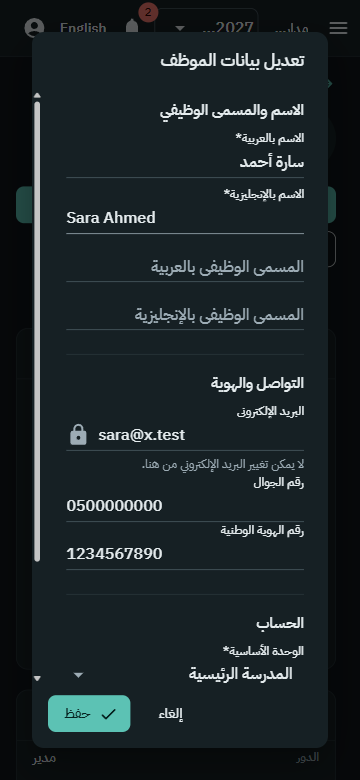
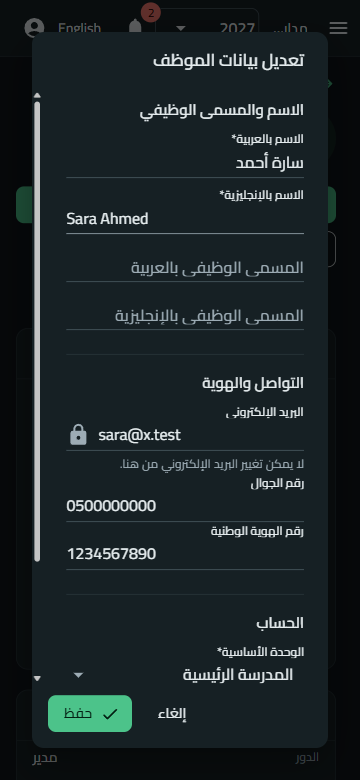
feat(ui): apply owner feedback - brand green, light sidebar, Cairo and Aptos fonts (#327)
- Primary #00663D (dark mode #4CC38A, AA on dark surfaces); light sidebar with green active item.
- Fonts: Cairo for Arabic; Aptos Display/Aptos for English when installed, Inter (Google Fonts)
  as the hosted fallback because Aptos is not licensed for web hosting. No font files committed.
- 360 px app bar: room for the notification badge so it no longer covers the language button.
- Refreshed after screenshots; theme tests.

diff --git a/src/Lms.Client/wwwroot/css/lms-theme.css b/src/Lms.Client/wwwroot/css/lms-theme.css
@@ -5,7 +5,6 @@
 :root {
     --lms-radius-surface: 12px;
     --lms-radius-control: 8px;
-    --lms-nav-accent: #7FD3C7;
     --lms-tint-primary: color-mix(in srgb, var(--mud-palette-primary) 10%, transparent);
     --lms-focus: 0 0 0 3px color-mix(in srgb, var(--mud-palette-primary) 35%, transparent);
 }
@@ -32,7 +31,7 @@ body { -webkit-font-smoothing: antialiased; text-rendering: optimizeLegibility; 
 .lms-app button:focus-visible,
 .lms-app .mud-button-root:focus-visible,
 .lms-app .mud-nav-link:focus-visible { outline: 2px solid var(--mud-palette-primary); outline-offset: 2px; }
-.lms-drawer .mud-nav-link:focus-visible { outline-color: var(--lms-nav-accent); outline-offset: -2px; }
+.lms-drawer .mud-nav-link:focus-visible { outline-offset: -2px; }
 @media (prefers-reduced-motion: reduce) {
     *, *::before, *::after { animation-duration: .01ms !important; transition-duration: .01ms !important; }
 }
@@ -50,17 +49,23 @@ body { -webkit-font-smoothing: antialiased; text-rendering: optimizeLegibility; 
 .lms-appbar .mud-toolbar { gap: 4px; }
 .lms-appbar-title { font-weight: 600 !important; }
 .lms-appbar-tools { display: flex; align-items: center; gap: 4px; min-width: 0; }
+/* Phones: leave room on the bell's end side so the unread badge does not cover the next button. */
+@media (max-width: 599px) {
+    .lms-appbar .mud-badge-root { margin-inline: 0 10px !important; }
+    .lms-appbar-tools { gap: 2px; }
+}
 
-.lms-drawer.mud-drawer { border-inline-end: 0; }
+/* Light sidebar: surface colour with a hairline edge; the active item is a green-tinted pill with a green bar. */
+.lms-drawer.mud-drawer { border-inline-end: 1px solid var(--mud-palette-lines-default); }
 .lms-brand.mud-drawer-header {
     display: flex; align-items: center; gap: 12px; min-height: 64px; padding: 12px 20px;
-    border-bottom: 1px solid rgba(255, 255, 255, .08);
+    border-bottom: 1px solid var(--mud-palette-lines-default);
 }
 .lms-brand-mark {
     display: inline-flex; align-items: center; justify-content: center; width: 32px; height: 32px; flex-shrink: 0;
-    border-radius: 8px; background: var(--lms-nav-accent); color: #0D3A3B;
+    border-radius: 8px; background: var(--mud-palette-primary); color: var(--mud-palette-primary-text);
 }
-.lms-brand-name.mud-typography { color: #FFFFFF; font-weight: 600; line-height: 1.3; }
+.lms-brand-name.mud-typography { color: var(--mud-palette-text-primary); font-weight: 700; line-height: 1.3; }
 
 .lms-drawer .mud-navmenu { padding: 12px 8px; }
 .lms-drawer .mud-nav-link {
@@ -68,15 +73,17 @@ body { -webkit-font-smoothing: antialiased; text-rendering: optimizeLegibility; 
     color: var(--mud-palette-drawer-text); font-weight: 400; position: relative;
 }
 .lms-drawer .mud-nav-link .mud-nav-link-text { margin-inline-start: 12px; }
-.lms-drawer .mud-nav-link:hover:not(.mud-nav-link-disabled) { background: rgba(255, 255, 255, .06); color: #FFFFFF; }
+.lms-drawer .mud-nav-link:hover:not(.mud-nav-link-disabled) {
+    background: color-mix(in srgb, var(--mud-palette-text-primary) 5%, transparent); color: var(--mud-palette-text-primary);
+}
 .lms-drawer .mud-nav-link.active:not(.mud-nav-link-disabled) {
-    background: rgba(255, 255, 255, .1) !important; color: #FFFFFF !important; font-weight: 600;
+    background: var(--lms-tint-primary) !important; color: var(--mud-palette-primary) !important; font-weight: 600;
 }
 .lms-drawer .mud-nav-link.active:not(.mud-nav-link-disabled)::before {
     content: ""; position: absolute; inset-inline-start: 0; top: 8px; bottom: 8px; width: 3px;
-    border-radius: 3px; background: var(--lms-nav-accent);
+    border-radius: 3px; background: var(--mud-palette-primary);
 }
-.lms-drawer .mud-nav-link.active .mud-nav-link-icon { color: var(--lms-nav-accent) !important; }
+.lms-drawer .mud-nav-link.active .mud-nav-link-icon { color: var(--mud-palette-primary) !important; }
 .lms-drawer .mud-nav-link .mud-nav-link-icon { color: var(--mud-palette-drawer-icon); }
 
 .lms-page.mud-container { padding-top: 24px; padding-bottom: 48px; }

diff --git a/src/Lms.Client/wwwroot/index.html b/src/Lms.Client/wwwroot/index.html
@@ -9,7 +9,8 @@
     <link rel="preload" id="webassembly" />
     <link rel="preconnect" href="https://fonts.googleapis.com" />
     <link rel="preconnect" href="https://fonts.gstatic.com" crossorigin />
-    <link rel="stylesheet" href="https://fonts.googleapis.com/css2?family=IBM+Plex+Sans+Arabic:wght@400;500;600;700&display=swap" />
+    <!-- Cairo (Arabic) and Inter (fallback for Aptos, which is not licensed for web hosting): both OFL, Google Fonts. -->
+    <link rel="stylesheet" href="https://fonts.googleapis.com/css2?family=Cairo:wght@400;500;600;700&family=Inter:wght@400;500;600;700&display=swap" />
     <link rel="stylesheet" href="_content/MudBlazor/MudBlazor.min.css" />
     <link rel="stylesheet" href="css/app.css" />
     <link rel="stylesheet" href="css/lms-theme.css" />

diff --git a/src/Lms.Client/wwwroot/css/app.css b/src/Lms.Client/wwwroot/css/app.css
@@ -1,4 +1,5 @@
-html, body { margin: 0; font-family: "IBM Plex Sans Arabic", "IBM Plex Sans", "Segoe UI", Tahoma, Arial, sans-serif; }
+html, body { margin: 0; font-family: "Aptos Display", Aptos, Inter, "Segoe UI", Cairo, Arial, sans-serif; }
+html:lang(ar), html:lang(ar) body { font-family: Cairo, "Segoe UI", Tahoma, Arial, sans-serif; }
 /* Theme tokens, shell and shared components: css/lms-theme.css. */
 
 #blazor-error-ui {

diff --git a/src/Lms.Client/Theme/LmsTheme.cs b/src/Lms.Client/Theme/LmsTheme.cs
@@ -3,20 +3,28 @@ using MudBlazor;
 namespace Lms.Client.Theme;
 
 /// <summary>
-/// The LMS look: deep ink-teal navigation, calm neutral surfaces, one type family for Arabic and Latin
-/// (IBM Plex Sans Arabic, whose Latin glyphs are IBM Plex Sans). Colours are chosen for WCAG AA text contrast
-/// in both palettes. Tokens the theme cannot express live in wwwroot/css/lms-theme.css.
+/// The LMS look: brand green #00663D on calm neutral surfaces with a light sidebar; Cairo for Arabic and
+/// Aptos Display for English. Colours are chosen for WCAG AA text contrast in both palettes.
+/// Tokens the theme cannot express live in wwwroot/css/lms-theme.css (keep the font stacks there in sync).
 /// </summary>
 public static class LmsTheme
 {
-    private static readonly string[] FontStack =
-        ["IBM Plex Sans Arabic", "IBM Plex Sans", "Segoe UI", "Tahoma", "Arial", "sans-serif"];
+    /// <summary>
+    /// Arabic UI: Cairo (Google Fonts) for Arabic and its own Latin glyphs.
+    /// English UI: Aptos Display / Aptos when installed (Windows with Microsoft 365); Aptos is not licensed for
+    /// web hosting, so devices without it get Inter (Google Fonts). Cairo stays in the stack for Arabic names.
+    /// </summary>
+    public static readonly string[] ArabicFontStack =
+        ["Cairo", "Segoe UI", "Tahoma", "Arial", "sans-serif"];
 
-    public static MudTheme Create() => new()
+    public static readonly string[] EnglishFontStack =
+        ["Aptos Display", "Aptos", "Inter", "Segoe UI", "Cairo", "Arial", "sans-serif"];
+
+    public static MudTheme Create(bool rightToLeft) => new()
     {
         PaletteLight = Light(),
         PaletteDark = Dark(),
-        Typography = Type(),
+        Typography = Type(rightToLeft ? ArabicFontStack : EnglishFontStack),
         LayoutProperties = new LayoutProperties
         {
             DefaultBorderRadius = "8px",
@@ -29,9 +37,9 @@ public static class LmsTheme
 
     private static PaletteLight Light() => new()
     {
-        Primary = "#0F6B63",
-        PrimaryDarken = "#0A524C",
-        PrimaryLighten = "#2F8A80",
+        Primary = "#00663D", // brand green: 7.1:1 on white
+        PrimaryDarken = "#004D2E",
+        PrimaryLighten = "#2E8A5F",
         PrimaryContrastText = "#FFFFFF",
         Secondary = "#3E4C5E",
         SecondaryContrastText = "#FFFFFF",
@@ -51,9 +59,9 @@ public static class LmsTheme
         Surface = "#FFFFFF",
         AppbarBackground = "#FFFFFF",
         AppbarText = "#17212B",
-        DrawerBackground = "#0D3A3B",
-        DrawerText = "#D9E8E6",
-        DrawerIcon = "#9CC8C2",
+        DrawerBackground = "#FFFFFF",
+        DrawerText = "#2A3540",
+        DrawerIcon = "#5B6876",
         TextPrimary = "#17212B",
         TextSecondary = "#526070",
         TextDisabled = "rgba(23,33,43,0.42)",
@@ -63,7 +71,7 @@ public static class LmsTheme
         LinesDefault = "#E1E6EA",
         LinesInputs = "#B9C3CC",
         TableLines = "#E7EBEE",
-        TableHover = "rgba(15,107,99,0.04)",
+        TableHover = "rgba(0,102,61,0.04)",
         TableStriped = "rgba(23,33,43,0.02)",
         Divider = "#E1E6EA",
         DividerLight = "#EEF1F3",
@@ -74,10 +82,10 @@ public static class LmsTheme
 
     private static PaletteDark Dark() => new()
     {
-        Primary = "#5CC2B4",
-        PrimaryDarken = "#3FA597",
-        PrimaryLighten = "#86D6CB",
-        PrimaryContrastText = "#062421",
+        Primary = "#4CC38A", // the brand green lightened for dark surfaces: 7.4:1 on #162024
+        PrimaryDarken = "#36A874",
+        PrimaryLighten = "#7AD6A9",
+        PrimaryContrastText = "#032013",
         Secondary = "#AAB7C5",
         SecondaryContrastText = "#111A22",
         Tertiary = "#E3B04B",
@@ -97,9 +105,9 @@ public static class LmsTheme
         Surface = "#162024",
         AppbarBackground = "#162024",
         AppbarText = "#E5ECEE",
-        DrawerBackground = "#0A1D1F",
-        DrawerText = "#CFE1DE",
-        DrawerIcon = "#8BBDB6",
+        DrawerBackground = "#162024",
+        DrawerText = "#D5DEE1",
+        DrawerIcon = "#9DACB5",
         TextPrimary = "#E5ECEE",
         TextSecondary = "#9DACB5",
         TextDisabled = "rgba(229,236,238,0.4)",
@@ -109,7 +117,7 @@ public static class LmsTheme
         LinesDefault = "#28343A",
         LinesInputs = "#4A5A62",
         TableLines = "#243035",
-        TableHover = "rgba(92,194,180,0.06)",
+        TableHover = "rgba(76,195,138,0.06)",
         TableStriped = "rgba(229,236,238,0.02)",
         Divider = "#28343A",
         DividerLight = "#1E292E",
@@ -118,22 +126,22 @@ public static class LmsTheme
         OverlayDark = "rgba(0,0,0,0.6)",
     };
 
-    private static Typography Type() => new()
+    private static Typography Type(string[] font) => new()
     {
-        Default = new DefaultTypography { FontFamily = FontStack, FontSize = ".9375rem", FontWeight = "400", LineHeight = "1.6", LetterSpacing = "normal" },
-        H1 = new H1Typography { FontFamily = FontStack, FontSize = "2.5rem", FontWeight = "600", LineHeight = "1.25", LetterSpacing = "-.01em" },
-        H2 = new H2Typography { FontFamily = FontStack, FontSize = "2rem", FontWeight = "600", LineHeight = "1.3", LetterSpacing = "-.01em" },
-        H3 = new H3Typography { FontFamily = FontStack, FontSize = "1.75rem", FontWeight = "600", LineHeight = "1.3", LetterSpacing = "normal" },
-        H4 = new H4Typography { FontFamily = FontStack, FontSize = "1.625rem", FontWeight = "600", LineHeight = "1.35", LetterSpacing = "normal" },
-        H5 = new H5Typography { FontFamily = FontStack, FontSize = "1.25rem", FontWeight = "600", LineHeight = "1.4", LetterSpacing = "normal" },
-        H6 = new H6Typography { FontFamily = FontStack, FontSize = "1.0625rem", FontWeight = "600", LineHeight = "1.5", LetterSpacing = "normal" },
-        Subtitle1 = new Subtitle1Typography { FontFamily = FontStack, FontSize = "1rem", FontWeight = "500", LineHeight = "1.6", LetterSpacing = "normal" },
-        Subtitle2 = new Subtitle2Typography { FontFamily = FontStack, FontSize = ".875rem", FontWeight = "600", LineHeight = "1.55", LetterSpacing = "normal" },
-        Body1 = new Body1Typography { FontFamily = FontStack, FontSize = ".9375rem", FontWeight = "400", LineHeight = "1.65", LetterSpacing = "normal" },
-        Body2 = new Body2Typography { FontFamily = FontStack, FontSize = ".875rem", FontWeight = "400", LineHeight = "1.6", LetterSpacing = "normal" },
-        Button = new ButtonTypography { FontFamily = FontStack, FontSize = ".875rem", FontWeight = "500", LineHeight = "1.75", LetterSpacing = "normal", TextTransform = "none" },
-        Caption = new CaptionTypography { FontFamily = FontStack, FontSize = ".75rem", FontWeight = "400", LineHeight = "1.6", LetterSpacing = "normal" },
-        Overline = new OverlineTypography { FontFamily = FontStack, FontSize = ".75rem", FontWeight = "600", LineHeight = "1.6", LetterSpacing = "normal", TextTransform = "none" },
+        Default = new DefaultTypography { FontFamily = font, FontSize = ".9375rem", FontWeight = "400", LineHeight = "1.6", LetterSpacing = "normal" },
+        H1 = new H1Typography { FontFamily = font, FontSize = "2.5rem", FontWeight = "600", LineHeight = "1.25", LetterSpacing = "-.01em" },
+        H2 = new H2Typography { FontFamily = font, FontSize = "2rem", FontWeight = "600", LineHeight = "1.3", LetterSpacing = "-.01em" },
+        H3 = new H3Typography { FontFamily = font, FontSize = "1.75rem", FontWeight = "600", LineHeight = "1.3", LetterSpacing = "normal" },
+        H4 = new H4Typography { FontFamily = font, FontSize = "1.625rem", FontWeight = "600", LineHeight = "1.35", LetterSpacing = "normal" },
+        H5 = new H5Typography { FontFamily = font, FontSize = "1.25rem", FontWeight = "600", LineHeight = "1.4", LetterSpacing = "normal" },
+        H6 = new H6Typography { FontFamily = font, FontSize = "1.0625rem", FontWeight = "600", LineHeight = "1.5", LetterSpacing = "normal" },
+        Subtitle1 = new Subtitle1Typography { FontFamily = font, FontSize = "1rem", FontWeight = "500", LineHeight = "1.6", LetterSpacing = "normal" },
+        Subtitle2 = new Subtitle2Typography { FontFamily = font, FontSize = ".875rem", FontWeight = "600", LineHeight = "1.55", LetterSpacing = "normal" },
+        Body1 = new Body1Typography { FontFamily = font, FontSize = ".9375rem", FontWeight = "400", LineHeight = "1.65", LetterSpacing = "normal" },
+        Body2 = new Body2Typography { FontFamily = font, FontSize = ".875rem", FontWeight = "400", LineHeight = "1.6", LetterSpacing = "normal" },
+        Button = new ButtonTypography { FontFamily = font, FontSize = ".875rem", FontWeight = "500", LineHeight = "1.75", LetterSpacing = "normal", TextTransform = "none" },
+        Caption = new CaptionTypography { FontFamily = font, FontSize = ".75rem", FontWeight = "400", LineHeight = "1.6", LetterSpacing = "normal" },
+        Overline = new OverlineTypography { FontFamily = font, FontSize = ".75rem", FontWeight = "600", LineHeight = "1.6", LetterSpacing = "normal", TextTransform = "none" },
     };
 
     /// <summary>Flat surfaces with hairline borders; elevation only for floating layers (menus, dialogs).</summary>

diff --git a/tests/Lms.Client.Tests/Components/LmsThemeTests.cs b/tests/Lms.Client.Tests/Components/LmsThemeTests.cs
@@ -1,0 +1,34 @@
+using Lms.Client.Theme;
+
+namespace Lms.Client.Tests.Components;
+
+public sealed class LmsThemeTests
+{
+    [Fact]
+    public void Arabic_ui_uses_Cairo_first()
+    {
+        var theme = LmsTheme.Create(rightToLeft: true);
+
+        Assert.Equal("Cairo", theme.Typography.Default.FontFamily![0]);
+        Assert.Equal("Cairo", theme.Typography.H4.FontFamily![0]);
+    }
+
+    [Fact]
+    public void English_ui_prefers_Aptos_with_a_hosted_free_fallback_and_Cairo_for_arabic_names()
+    {
+        var stack = LmsTheme.Create(rightToLeft: false).Typography.Default.FontFamily!;
+
+        Assert.Equal(["Aptos Display", "Aptos", "Inter"], stack.Take(3));
+        Assert.Contains("Cairo", stack);
+        Assert.Equal("sans-serif", stack[^1]);
+    }
+
+    [Fact]
+    public void Brand_green_is_primary_in_light_mode_and_a_lighter_green_in_dark_mode()
+    {
+        var theme = LmsTheme.Create(rightToLeft: false);
+
+        Assert.Equal("#00663D", theme.PaletteLight.Primary.ToString(MudBlazor.Utilities.MudColorOutputFormats.Hex), ignoreCase: true);
+        Assert.Equal("#4CC38A", theme.PaletteDark.Primary.ToString(MudBlazor.Utilities.MudColorOutputFormats.Hex), ignoreCase: true);
+    }
+}
